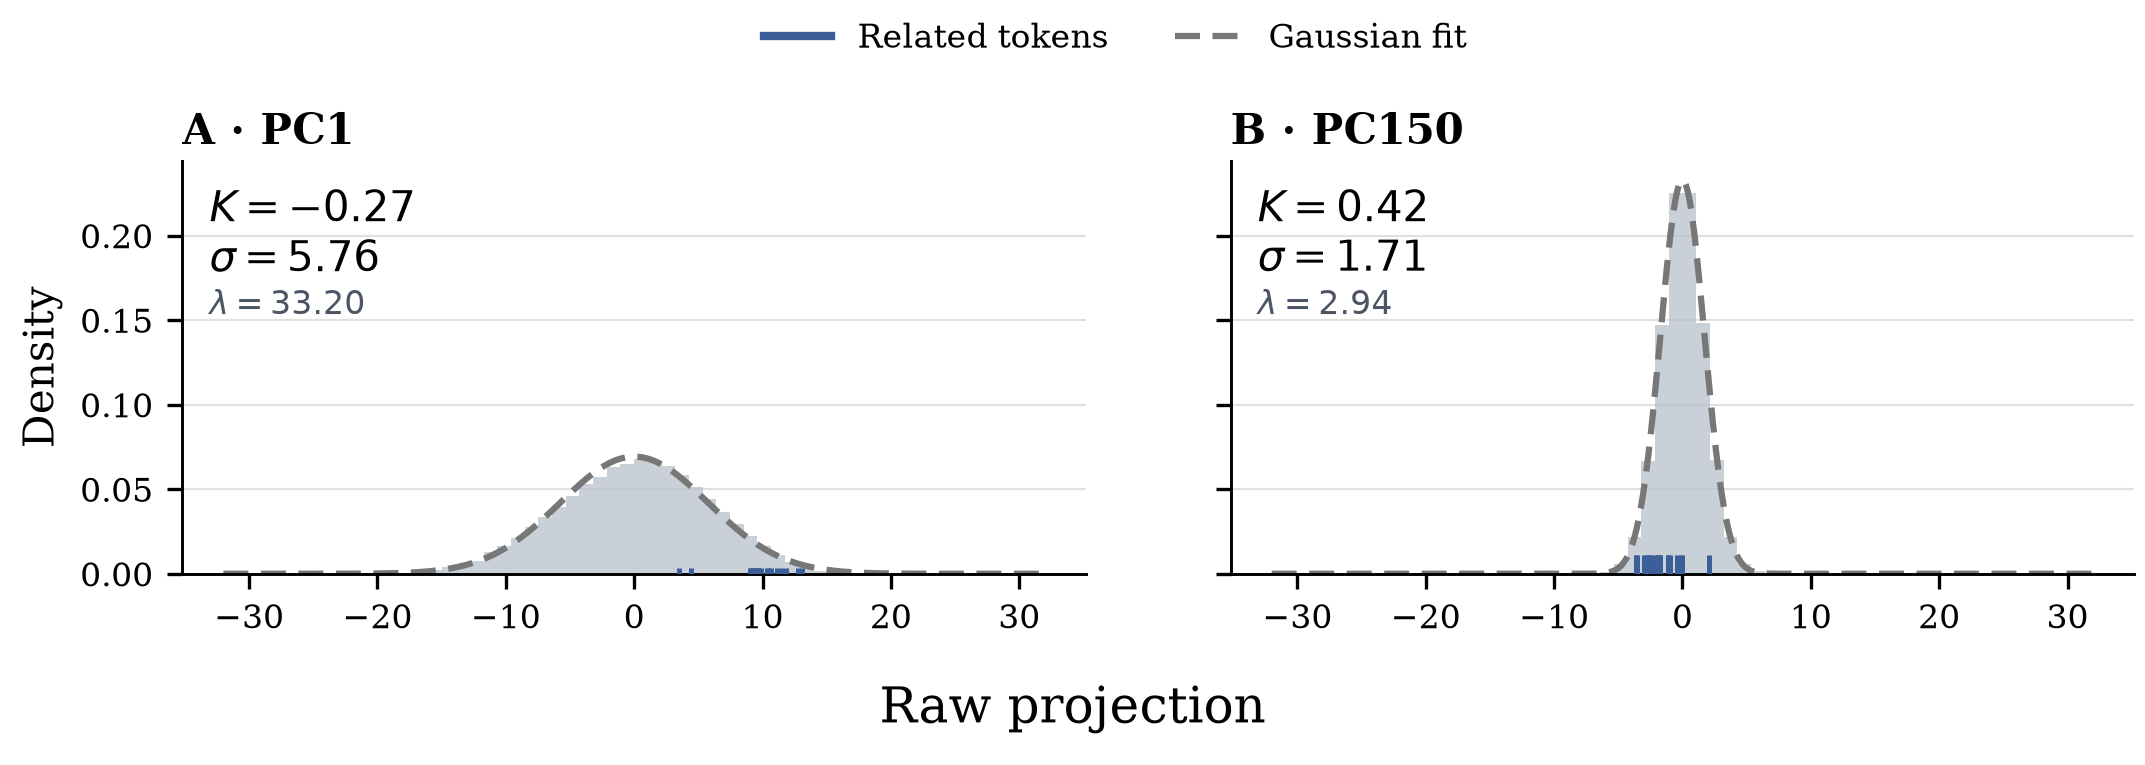
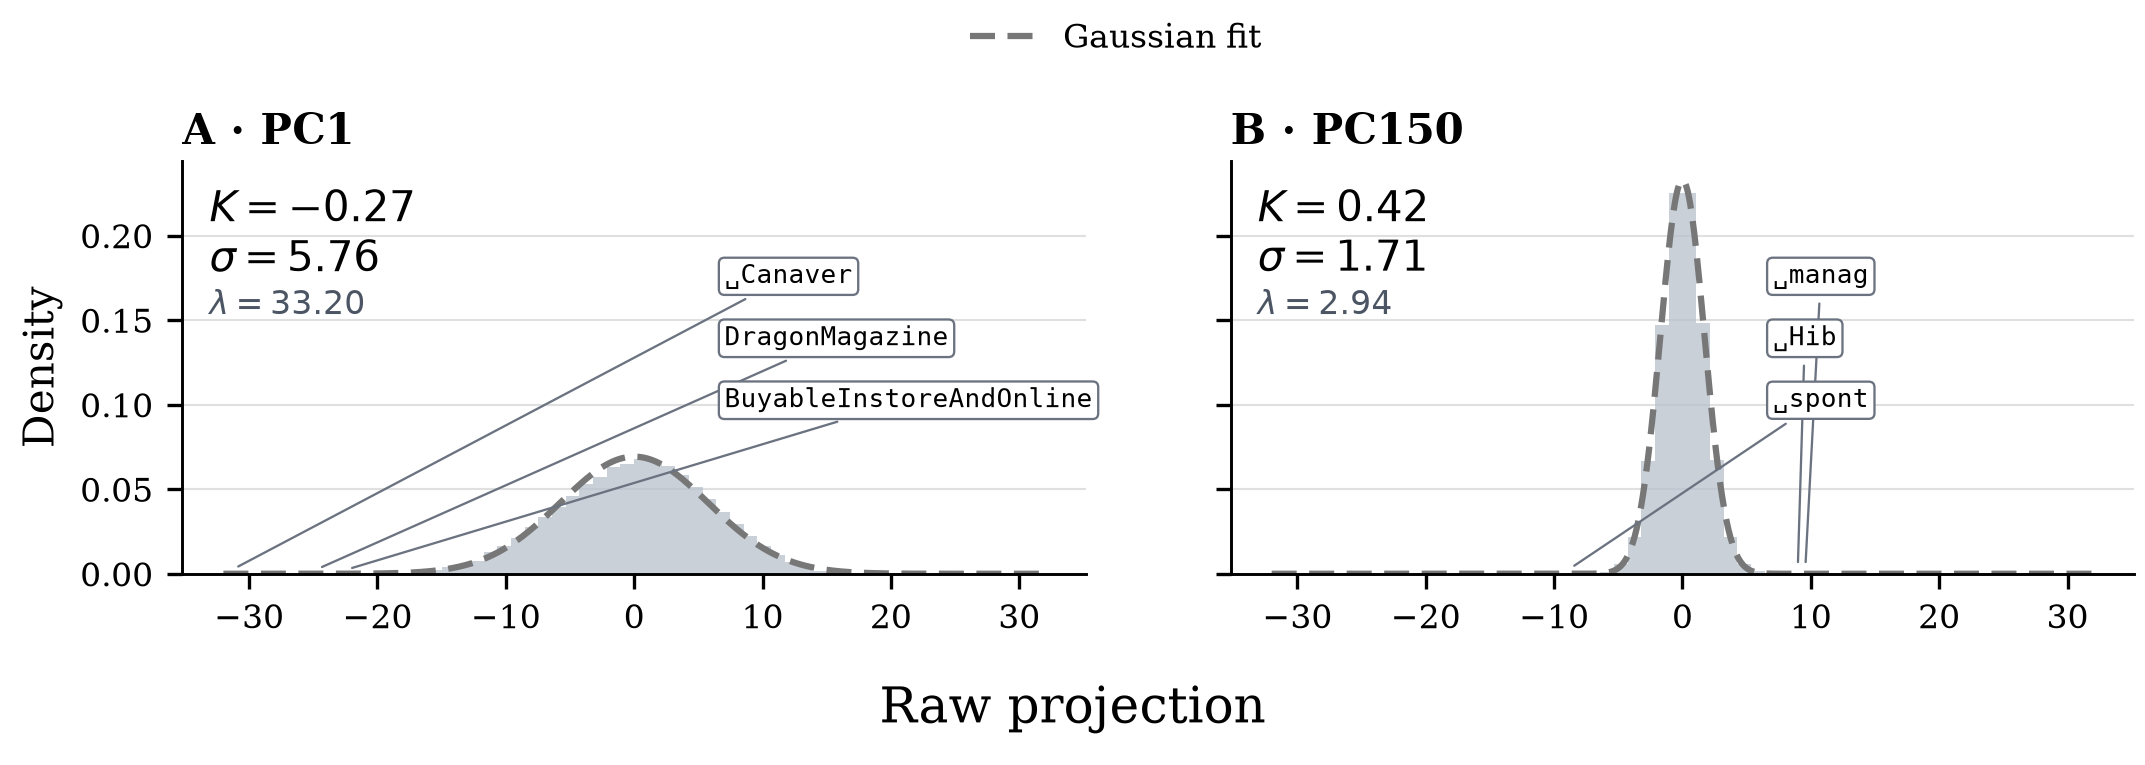
update

diff --git a/experiments/toy-example/scripts/make_pca_projection_figure.py b/experiments/toy-example/scripts/make_pca_projection_figure.py
@@ -16,7 +16,7 @@ import torch
 from matplotlib.lines import Line2D
 from safetensors.torch import load_file
 
-COLORS = {"background": "#B8C1CC", "concept": "#3D5F99", "gaussian": "#777777"}
+COLORS = {"background": "#B8C1CC", "gaussian": "#777777"}
 
 
 def parse_args(argv: Sequence[str] | None = None) -> argparse.Namespace:
@@ -46,7 +46,6 @@ def main(argv: Sequence[str] | None = None) -> None:
     samples = json.loads((capture / "samples.json").read_text(encoding="utf-8"))
     x = load_file(capture / "activations.safetensors")["layer_00"].double()
     background = torch.tensor([sample["role"] == "background" for sample in samples])
-    concept = ~background
     center = x[background].mean(dim=0)
     centered = x - center
     covariance = centered.T @ centered / (len(centered) - 1)
@@ -62,9 +61,9 @@ def main(argv: Sequence[str] | None = None) -> None:
     _render(
         projections.numpy(),
         background.numpy(),
-        concept.numpy(),
         component_numbers,
         eigenvalues[selected].numpy(),
+        tuple(str(sample["token"]) for sample in samples),
         output,
     )
     print(output)
@@ -73,9 +72,9 @@ def main(argv: Sequence[str] | None = None) -> None:
 def _render(
     projections: np.ndarray,
     background: np.ndarray,
-    concept: np.ndarray,
     component_numbers: tuple[int, int],
     eigenvalues: np.ndarray,
+    tokens: tuple[str, ...],
     output: Path,
 ) -> None:
     cache = Path(tempfile.gettempdir()) / "icalens-matplotlib"
@@ -124,14 +123,35 @@ def _render(
                 linewidth=1.5,
                 zorder=2,
             )
-            axis.vlines(
-                values[concept],
-                0,
-                0.045 * axis.get_ylim()[1],
-                color=COLORS["concept"],
-                linewidth=1.2,
-                zorder=3,
-            )
+            standardized = (values - mean) / sigma
+            outlier_indices = np.argsort(np.abs(standardized))[-3:][::-1]
+            label_x = (0.60, 0.60, 0.60)
+            label_y = (0.72, 0.57, 0.42)
+            for rank, index in enumerate(outlier_indices):
+                token = tokens[int(index)].replace(" ", "␣")
+                axis.annotate(
+                    token,
+                    xy=(values[index], 0.002),
+                    xycoords="data",
+                    xytext=(label_x[rank], label_y[rank]),
+                    textcoords="axes fraction",
+                    ha="left",
+                    va="center",
+                    fontsize=6.2,
+                    fontfamily="monospace",
+                    bbox={
+                        "boxstyle": "round,pad=0.22",
+                        "facecolor": "white",
+                        "edgecolor": "#6B7280",
+                        "linewidth": 0.55,
+                    },
+                    arrowprops={
+                        "arrowstyle": "-",
+                        "color": "#6B7280",
+                        "linewidth": 0.55,
+                    },
+                    zorder=5,
+                )
             axis.text(
                 0.03,
                 0.94,
@@ -163,7 +183,6 @@ def _render(
         figure.supxlabel("Raw projection", y=0.04)
         figure.legend(
             handles=[
-                Line2D([], [], color=COLORS["concept"], linewidth=2, label="Related tokens"),
                 Line2D(
                     [], [], color=COLORS["gaussian"], linestyle=(0, (4, 2)),
                     linewidth=1.5, label="Gaussian fit",
@@ -171,7 +190,7 @@ def _render(
             ],
             loc="upper center",
             bbox_to_anchor=(0.52, 1.01),
-            ncol=2,
+            ncol=1,
             frameon=False,
         )
         figure.subplots_adjust(left=0.085, right=0.995, bottom=0.25, top=0.79, wspace=0.16)
